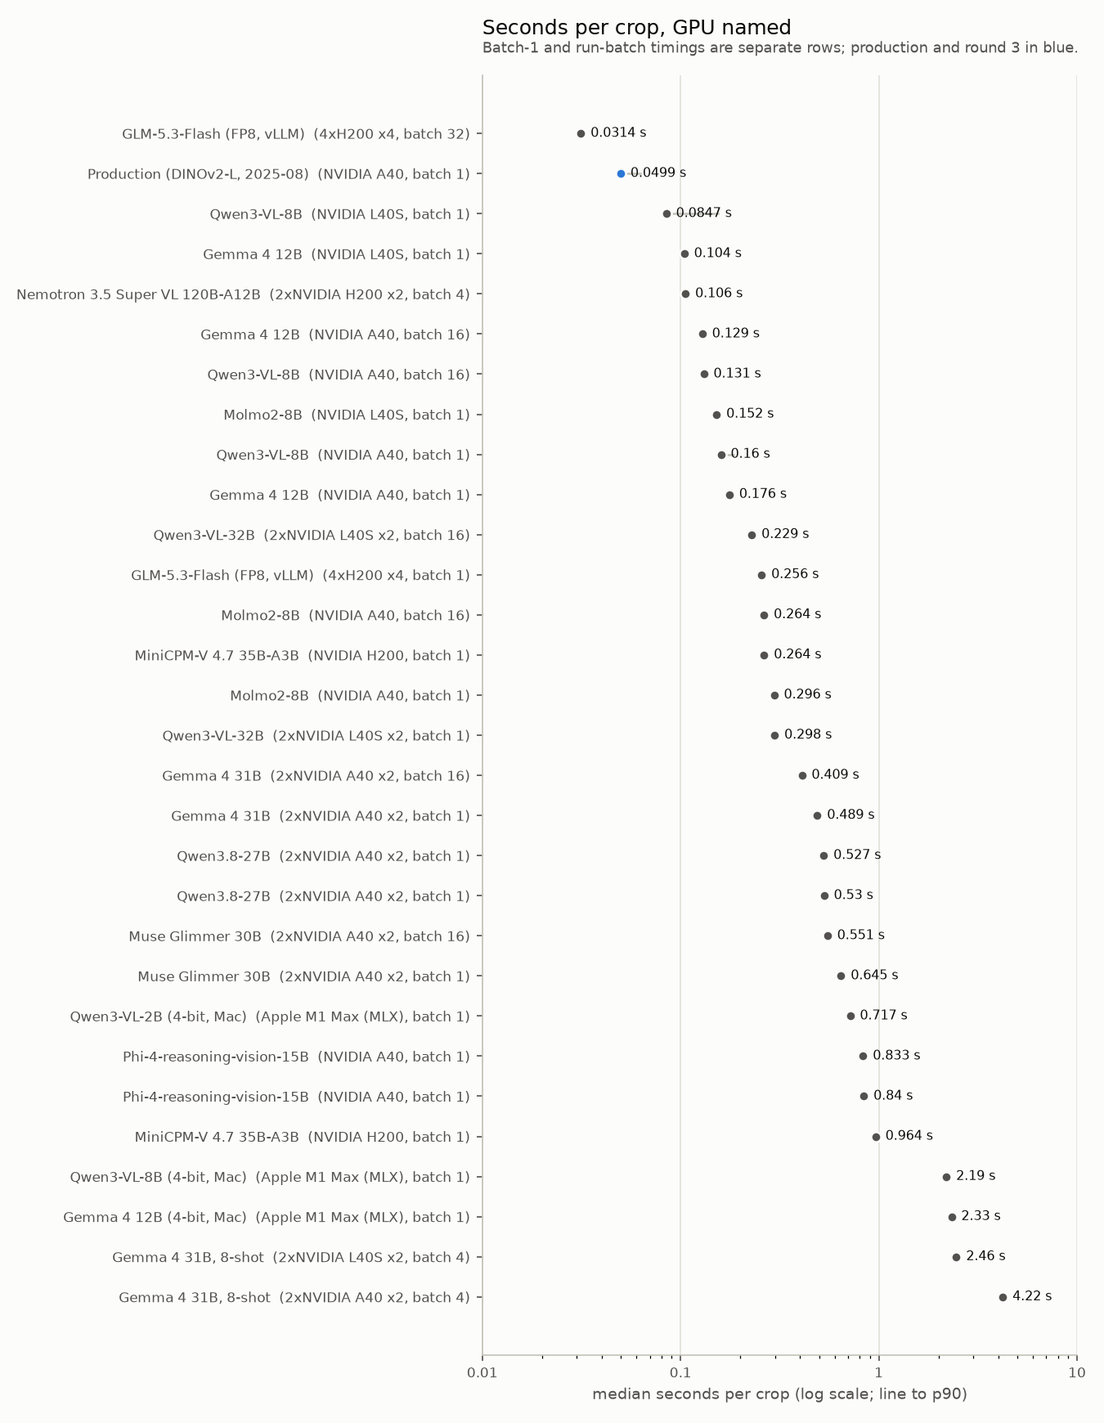
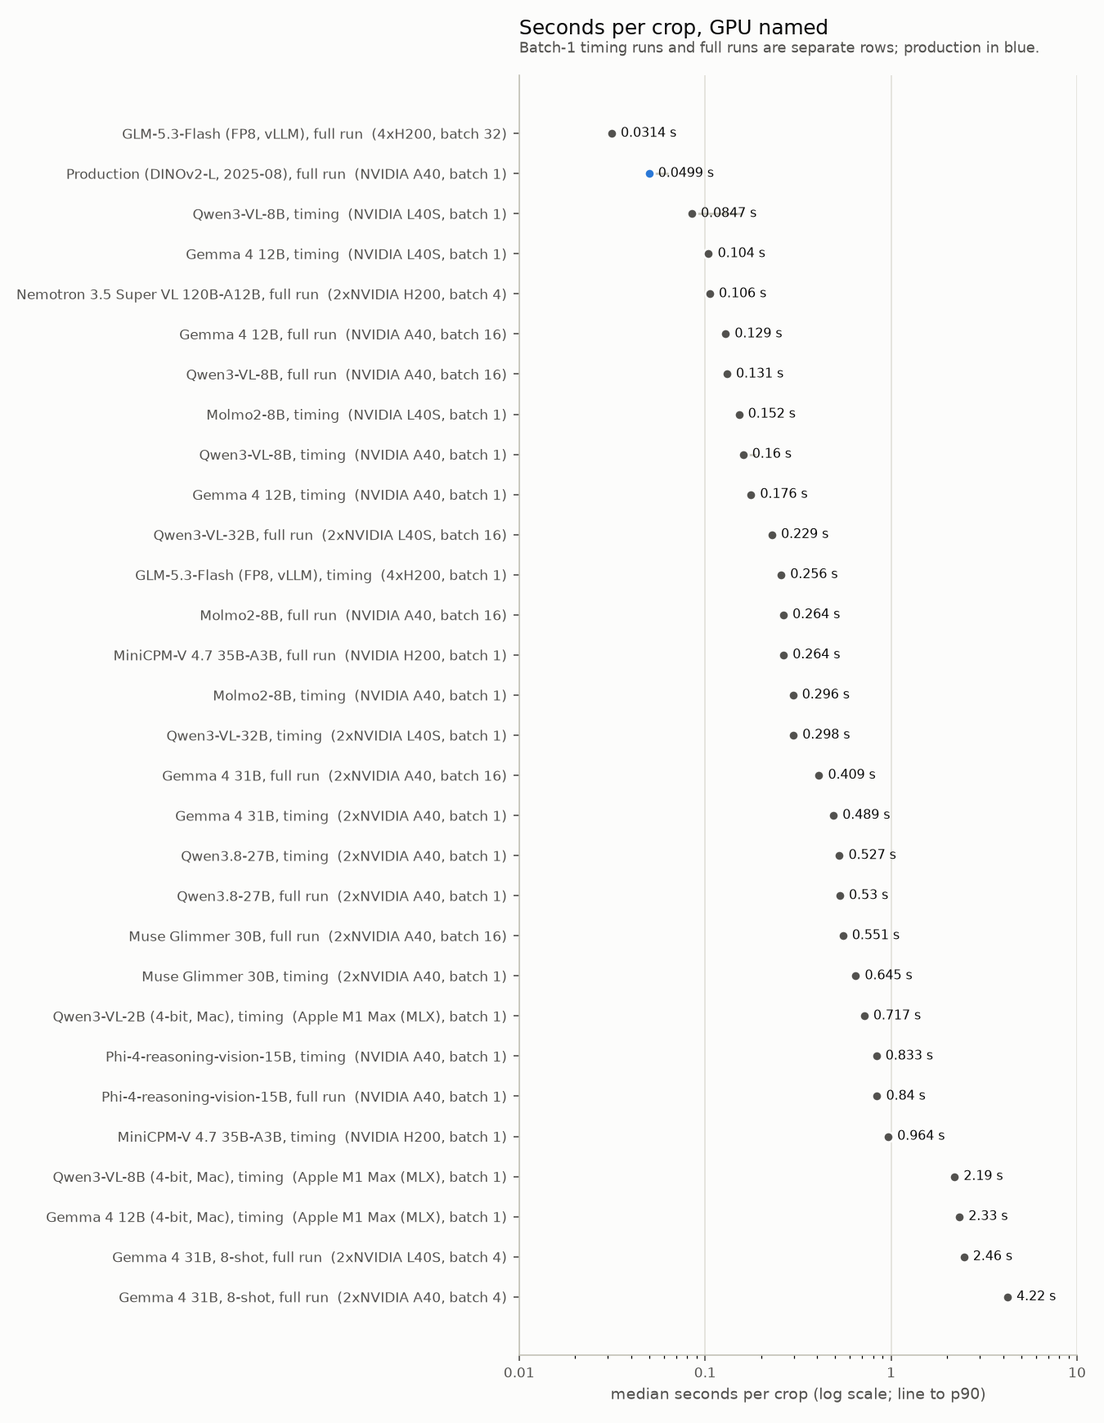
Scoreboard review fixes: runs.md vLLM log restored, figures, caveats (#63)
- runs.md: restore the vLLM section 6fc73a0 overwrote; move the three GLM job
  rows into its 7-column Jobs table with the cells in the right columns; move
  the 8-shot/quota/Nemotron prose into a Notes section; real Nemotron batch
  check (0.007-0.111 max, 0.003-0.038 median) and Slurm Elapsed walls; fix the
  batch-invariance median range; "Where it stands" past-tense.
- vlm-scoreboard.md: batch-effects caveat checked against batch_invariance.csv,
  Nemotron in the thinking-switch list, timing and 8-shot latency wording,
  held-out split defined in the per-deployment intro.
- Figures: per-deployment subtitle on one line, ROC footnote clear of the axis
  labels, latency rows labelled timing/full run without a doubled GPU count.
- Drop the stale phi4 DEFAULT_WHY; vLLM launcher and client use $USER/%u.

diff --git a/analysis/vlm_scoreboard.py b/analysis/vlm_scoreboard.py
@@ -100,7 +100,6 @@ LEGS = {
 }
 MAC_LEGS = {"qwen3vl-2b": "qwen3vl-2b-mlx4", "qwen3vl-8b": "qwen3vl-8b-mlx4", "gemma4-12b": "gemma4-12b-mlx4"}
 DEFAULT_WHY = {
-    "phi4-rv-15b": "optional leg; not run",
     "production": "not staged yet (the full-split production run is on klone)",
     "fewshot8": "the 8-shot arm runs on the best zero-shot leg once the board names it",
 }
@@ -878,7 +877,7 @@ def fig_roc(legs, b, path):
     """ROC per type: round 3 (blue) and production (ink) solid, the best VLM orange dashed, other VLM legs muted."""
     plt = _plt()
     best, _ = best_vlm(b)
-    fig, axes = plt.subplots(1, len(LABEL_TYPES), figsize=(16, 4.0), sharey=True, facecolor=SURFACE)
+    fig, axes = plt.subplots(1, len(LABEL_TYPES), figsize=(16, 4.4), sharey=True, facecolor=SURFACE)
     order = [leg for leg in b.leg if leg in legs]
     for ax, t in zip(axes, LABEL_TYPES):
         _style(ax)
@@ -908,8 +907,8 @@ def fig_roc(legs, b, path):
     axes[0].set_ylabel("true positive rate (incorrect)", fontsize=8, color=INK2)
     fig.suptitle("ROC per label type on each leg's scored crops (AUC in the legend)", x=0.01, ha="left",
                  fontsize=11, color=INK)
-    fig.text(0.01, 0.01, FOOTNOTE, fontsize=7, color=MUTED)
-    fig.tight_layout(rect=(0, 0.05, 1, 0.95))
+    fig.text(0.01, 0.015, FOOTNOTE, fontsize=7, color=MUTED, va="bottom")
+    fig.tight_layout(rect=(0, 0.08, 1, 0.95))
     fig.savefig(path, dpi=150, facecolor=SURFACE)
     plt.close(fig)
 
@@ -946,11 +945,29 @@ def fig_per_deployment(dep, b, path):
     ax.set_axisbelow(True)
     ax.set_xlabel("mean within-type AUC (types with >= 10 rows and both classes)", fontsize=9, color=INK2)
     ax.legend(fontsize=8, frameon=False, loc="upper left", bbox_to_anchor=(1.0, 1.0))
-    _titles(ax, "Per deployment: round 3 vs the best VLM", "Public deployments with >= 30 crops named; private\n"
-            "held-out deployments lettered, all other private deployments pooled.")
+    _titles(ax, "Per deployment: round 3 vs the best VLM", "Public deployments (>= 30 crops) named; private held-out "
+            "ones lettered; other private ones pooled.")
     fig.tight_layout()
     fig.savefig(path, dpi=150, facecolor=SURFACE)
     plt.close(fig)
+
+
+def _gpu_label(gpu, n_gpus):
+    """GPU label for a timing row; appends `` xN`` only when the name does not already carry a count.
+
+    >>> _gpu_label("2xNVIDIA A40", 2), _gpu_label("NVIDIA A40", 2), _gpu_label("NVIDIA A40", 1)
+    ('2xNVIDIA A40', 'NVIDIA A40 x2', 'NVIDIA A40')
+    """
+    n = int(n_gpus)
+    if n == 1 or re.match(r"\d+x", str(gpu)):
+        return str(gpu)
+    return f"{gpu} x{n}"
+
+
+def _timing_kind(source):
+    """``"full run"`` for a row timed on a scoring run, ``"timing"`` for a dedicated timing run (``source`` column)."""
+    s = str(source)
+    return "full run" if s.startswith("full run") or s.startswith("vlm_vllm score") else "timing"
 
 
 def fig_latency(tm, path):
@@ -980,14 +997,14 @@ def fig_latency(tm, path):
     ax.xaxis.set_major_formatter(FuncFormatter(lambda v, _p: f"{v:g}"))
     ax.xaxis.set_minor_formatter(NullFormatter())
     ax.set_yticks(ys)
-    ax.set_yticklabels([f"{r.display}  ({r.gpu}{'' if int(r.n_gpus) == 1 else f' x{int(r.n_gpus)}'}, batch "
+    ax.set_yticklabels([f"{r.display}, {_timing_kind(r.source)}  ({_gpu_label(r.gpu, r.n_gpus)}, batch "
                         f"{int(r.batch_size)})" for r in t.itertuples()], fontsize=8)
     ax.invert_yaxis()
     ax.xaxis.grid(True, color=GRID, lw=0.8, which="major")
     ax.set_axisbelow(True)
     ax.set_xlabel("median seconds per crop (log scale; line to p90)", fontsize=9, color=INK2)
-    _titles(ax, "Seconds per crop, GPU named", "Batch-1 and run-batch timings are separate rows; production and "
-            "round 3 in blue.")
+    _titles(ax, "Seconds per crop, GPU named", "Batch-1 timing runs and full runs are separate rows; production "
+            "in blue.")
     fig.tight_layout()
     fig.savefig(path, dpi=150, facecolor=SURFACE)
     plt.close(fig)

diff --git a/analysis/vlm_vllm.py b/analysis/vlm_vllm.py
@@ -43,7 +43,7 @@ in the ``vllm/vllm-openai`` Apptainer image, waits for ``/health``, runs this, a
 
 Usage (on a GPU node, with a server on port 8000)::
 
-    D=/gscratch/makelab/jfroehli/sidewalk-validator-ai/retrain-2026-10; O=/gscratch/scrubbed/jfroehli/vlm-scoreboard/scores
+    D=/gscratch/makelab/$USER/sidewalk-validator-ai/retrain-2026-10; O=/gscratch/scrubbed/$USER/vlm-scoreboard-2026-10/scores
     python analysis/vlm_vllm.py score --server http://127.0.0.1:8000 --model glm5.3-flash --repo zai-org/GLM-5.3-Flash \\
         --data-root $D --out-dir $O --concurrency 32 --gpu 4xH200 --tp 4 --image-tag vllm/vllm-openai:v0.32.0-x86_64 \\
         --prefill '<think></think>' --template-kwargs '{"reasoning_effort": "low"}'

diff --git a/docs/vlm-scoreboard/runs.md b/docs/vlm-scoreboard/runs.md
@@ -1,7 +1,7 @@
 # VLM scoreboard: klone run log (issue #63)
 
-Every Slurm job behind the transformers legs and the production rows, written by the runner as the jobs ran (all on
-2026-10-26, account `makelab`, partition `ckpt-all`, `--requeue`). Wall times are Slurm `Elapsed`. The per-crop
+Every Slurm job behind the transformers, vLLM and production legs, written by the runner as the jobs ran (2026-10-26/27,
+account `makelab`, partition `ckpt-all`, `--requeue`). Wall times are Slurm `Elapsed`. The per-crop
 outputs carry label ids of private deployments, so they live outside the repo
 (`/gscratch/scrubbed/jfroehli/vlm-scoreboard-2026-10/` on klone, `~/Data/sidewalk-validator-ai-vlm-scoreboard-2026-10/`
 on the Mac); only this log, the code and the generated scoreboard are committed. No label ids or deployment names
@@ -61,11 +61,11 @@ bug. Early runs used a 0.02 threshold and a one-row check; the aborts below are 
 | `qwen3.8-27b` | 1 | 2×A40 | n/a (batch 1) | a batch-16 run (42380949) aborted on NoCurbRamp at 0.030 under the 0.02 threshold; rerun at batch 1, kept |
 | `phi4-rv-15b` | 1 | 1×A40 | n/a (batch 1; its smoke showed 0.011 at batch 8) | none |
 | `gemma4-31b-fewshot8` | 4 | 2×L40S / 2×A40 (one job per type) | ≤1e-16 on the first batches (about 3.1k-token prompts) | none |
-| `nemotron3.5-super-vl-120b` | 4 | 2×H200 | done | 0.106 s/crop full run; batch check on the first batch only (see the job table) |
+| `nemotron3.5-super-vl-120b` | 4 | 2×H200 | 0.007–0.111 max, 0.003–0.038 median (4 rows per type: the first batch only) | none |
 | `production` | 1 (unbatched) | 1×A40 | n/a | none |
 
 The batch-1 timing crops against the full runs (`scores/batch_invariance.csv`, 50 crops per leg, same GPU type):
-median |dp| 0.0024 (Molmo2) to 0.012 (Gemma 4 12B), max 0.019 to 0.22 (Gemma 4 31B); legs run at batch 1
+median |dp| 0.0001 (Gemma 4 31B) to 0.012 (Gemma 4 12B), max 0.019 (Molmo2) to 0.22 (Gemma 4 31B); legs run at batch 1
 reproduce their batch-1 timing scores exactly (0.0), so batch-1 runs are deterministic on one GPU type.
 
 MiniCPM-V 4.7's batch-1 timing run (job 42382210, 0.964 s/crop on g3130) is 3.7× slower than its full run at the
@@ -126,7 +126,76 @@ node), and the full-run row is the one to quote (the board picks it: `run_speed`
 | 42399869 | nemo | nemotron3.5-super-vl-120b full, batch 4 | 2×H200 | — | preempted while loading the weights; cancelled and resubmitted with parallel loading |
 | 42401600 | nemo | **nemotron3.5-super-vl-120b full**, batch 4, `HF_ENABLE_PARALLEL_LOADING` | 2×H200 | 31:23 (third start) | preempted while loading at 14:15, requeued, ran 17:25–17:56 on g3127 and scored 1,728 CurbRamp rows, then **FAILED with `Disk quota exceeded`** writing the meta file on `/gscratch/scrubbed` (the shared fileset was at 99%; writes succeeded again at 18:37, so the quota hit was transient) |
 | 42413443 | nemo | **nemotron3.5-super-vl-120b full**, resubmitted 18:40 after the quota failure; resumes from the 1,728 rows already in CurbRamp.csv | 2×H200 | 20:53 | ran 18:47–19:08 on g3128, loaded in 19 min, scored 64 more rows at 0.203 s/crop, then **FAILED again with `Disk quota exceeded`** on the CSV append |
-| 42454116 | nemo | **nemotron3.5-super-vl-120b full**, `OUT=/gscratch/makelab/jfroehli/vlm-out` (the 1,792 scored rows copied there); submitted 2026-10-27 05:48 | 2×H200 | ~45 min | **done**, 0 preemptions: started 06:53 on g3132 right after GLM released the node, loaded in 19 min, scored the remaining 11,352 crops at 0.105 s/crop (peak 248 GB). Five types from four job starts; `n_crops` 13,136 in timing.csv is the last partial batch excluded |
+| 42454116 | nemo | **nemotron3.5-super-vl-120b full**, `OUT=/gscratch/makelab/jfroehli/vlm-out` (the 1,792 scored rows copied there); submitted 2026-10-27 05:48 | 2×H200 | 41:16 | **done**, 0 preemptions: ran 06:55–07:36 on g3132 right after GLM released the node, loaded in 19 min, scored the remaining 11,352 crops at 0.105 s/crop (peak 248 GB). Five types from four job starts; `n_crops` 13,136 in timing.csv is the last partial batch excluded |
+
+## vLLM
+
+GLM-5.3-Flash (and a Qwen3-VL-8B smoke through the same path), served by vLLM in Apptainer and scored from the first
+generated token's top-20 log-probs: `analysis/vlm_vllm.py` (client) and `analysis/vlm_vllm.slurm` (launcher). Outputs
+on klone under `/gscratch/scrubbed/jfroehli/vlm-scoreboard-2026-10/` (`scores/glm5.3-flash/` for the full run,
+`smoke-vllm/` for smokes), staged on the Mac under `~/Data/sidewalk-validator-ai-vlm-scoreboard-2026-10/scores/`.
+
+### Setup (2026-10-26)
+
+- Image: `vllm/vllm-openai:v0.32.0-x86_64` (vLLM 0.32.0, CUDA 13.0, FlashInfer 0.7.0.post1), pulled to
+  `/gscratch/scrubbed/jfroehli/containers/` in a CPU job (`apptainer pull` on a login node risks the reaper). The
+  recipe (https://recipes.vllm.ai/zai-org/GLM-5.3-Flash) asks for vLLM ≥ 0.29.0 and FlashInfer ≥ 0.6.18. The
+  `-cu129` variant of the same release was tried first and dies at import: its torchcodec links `libnvrtc.so.13`.
+  klone's H200 driver is 580.178, which runs CUDA 13.0.
+- Weights: `zai-org/GLM-5.3-Flash` revision `46a050bec13002ad29ee795c16e61cf4fa3c4a9c`, 306 GiB FP8, 69 files, downloaded
+  on the login node in 2 h 10 min (`HF_HUB_DISABLE_XET=1`, safetensors/json/py/txt/jinja only).
+- Serve flags: TP 4, `--max-model-len 8192`, `--limit-mm-per-prompt {"image":1,"video":0}`, `--max-logprobs 20`, BF16 KV
+  cache (the recipe: Hopper cannot use FP8 KV for this model), no MTP speculative decoding (one token is generated).
+- Thinking: GLM-5.3-Flash's template always opens `<think>` and has no off switch (the recipe: "Thinking is always
+  on"). The client sends an assistant turn `<think></think>` with `continue_final_message=true`, which the template
+  renders as an empty, closed think block, plus `reasoning_effort=low`. The rendered prompt tail from vLLM's
+  `/tokenize` is recorded in each meta file.
+- Client env: `/gscratch/scrubbed/jfroehli/envs/vllm-client` (Python 3.12, numpy, pandas, scikit-learn, matplotlib,
+  pillow). The client runs on the host and posts each crop to the server as a base64 data URL.
+- Three klone traps, each fixed in the launcher: (1) klone exports `http_proxy`, and its `no_proxy` omits `127.0.0.1`,
+  so the `/health` probe went to the proxy and a healthy server timed out (job 42382723). (2) Apptainer's `--env`
+  splits on commas, so a 4-GPU `CUDA_VISIBLE_DEVICES=0,1,2,3` broke the 4×H200 launch (job 42390223). (3) The first
+  successful smoke used the transformers leg's `scores/` directory and model name. It appended nothing to that leg's
+  CSV, but it merged its keys into that leg's `qwen3vl-8b-bf16/CurbRamp.meta.json`. That file was restored by hand
+  (the added keys were removed; `gpu`/`batch_size` were reset to the CSV's `NVIDIA A40`/16). The client now refuses to
+  write into a CSV or meta file it did not create.
+
+### Smoke agreement: vLLM vs transformers, Qwen3-VL-8B-Instruct bf16, 40 CurbRamp crops
+
+The same 40 crops (`--limit 40`, first 20 per class by `label_uid`) scored by both paths. The transformers side is the
+runner's full CurbRamp run, on an A40 at batch 16; the vLLM side ran on 1×H200 at concurrency 8.
+
+| measure | value |
+|---|---|
+| mean / median / max \|Δ p_incorrect\| | 0.009 / 0.0007 / 0.060 |
+| crops with \|Δ\| > 0.02 | 8 of 40 |
+| mean / max \|Δ log-odds\| | 0.17 / 0.50 |
+| same verdict at 0.5 | 39 of 40 |
+| same top token, same prompt token count | 40 of 40, 40 of 40 |
+| top-20 mass outside (vLLM) | mean 1.1e-7, max 1.1e-6; no missing-side floors |
+
+The prompt and image token counts match exactly, so preprocessing agrees. The residual is bf16 kernel noise:
+FlashAttention 3 in vLLM against sdpa in transformers. In probability it is largest near 0.5. The mean is inside the
+~0.02 expectation; the tail is not.
+
+### Jobs
+
+Wait = Slurm `Start − Submit`. All on `ckpt-all`, account `makelab`.
+
+| job | what | GPU | wait | wall | preemptions | outcome |
+|---|---|---|---|---|---|---|
+| 42378643 | `apptainer pull` v0.32.0-cu129 | CPU, 16 cores | 0 min | 1:09:48 | 0 | image built; unusable (libnvrtc.so.13) |
+| 42379510 | smoke Qwen3-VL-8B, cu129 image | 1×H200 | 7 min | 0:01:11 | 0 | failed: torchcodec import |
+| 42380061 | `apptainer pull` v0.32.0 (CUDA 13) | CPU, 16 cores | 3 min | 0:44:22 | 0 | image built |
+| 42382723 | smoke Qwen3-VL-8B | 1×H200 | 37 min | 1:00:26 | 0 | timeout: health probe behind proxy |
+| 42390219 | smoke Qwen3-VL-8B | 1×H200 | 7 min | 0:03:39 | 0 | collided with the transformers leg's dir (above) |
+| 42390223 | smoke GLM-5.3-Flash, 40/type | 4×H200 | 9 min | 0:00:26 | 0 | failed: `--env` comma split |
+| 42391263 | smoke Qwen3-VL-8B, 40 CurbRamp | 1×H200 | 10 min | 0:07:21 | 0 | OK; server healthy in 180 s; 0.075 s/crop at concurrency 8 |
+| 42391323 | smoke GLM-5.3-Flash, 40/type, `OUT=smoke-vllm`; submitted 2026-10-26 10:22 | 4×H200 | 8 h 34 min (to the first start) | — | 1 | started 18:56 on g3127 and was **preempted at 18:58** while loading the tokenizer; requeued; cancelled 2026-10-27 06:05 once the full run 42413444 was running (the full run's meta answers the same prefill question) |
+| 42413444 | **full GLM-5.3-Flash**, launcher defaults (timing at concurrency 1, then all 13,144 crops); submitted 2026-10-26 18:40 | 4×H200 | about 11 h (started 2026-10-27 05:57 on g3132) | 0:55:13 | 0 | **done** (05:57:38–06:52:51): 0.256 s/crop at concurrency 1, 0.031 s/crop at concurrency 32. Weights loaded in 30 min, first-use kernel JIT (TileLang, FlashInfer) another 17 min, healthy after 2,823 s, then all 13,144 crops in 7 min. Every rendered prompt ends `<\|assistant\|><think></think>`; no yes/no side fell outside the top-20 log-probs (`n_answer_floor` empty); `top20_mass_outside` ≤ 5.2e-4; the meta carries `answer_floor_rule`, so the corrected client ran. Wrote to scrubbed without hitting the quota |
+| 42454117 | **full GLM-5.3-Flash**, same defaults, `OUT=/gscratch/makelab/jfroehli/vlm-out/scores-vllm`; submitted 2026-10-27 05:48 | 4×H200 | — | — | — | hedge against the scrubbed quota; cancelled at 06:45 once 42413444 was writing rows cleanly |
+
+## Notes
 
 8-shot arm: the leg with the best mean per-type AUC among the finished zero-shot legs when it was launched was
 `gemma4-31b`. Examples: 4 correct + 4 incorrect `train` crops per type, seed 20261021, interleaved correct/incorrect,
@@ -139,23 +208,12 @@ Prompts are about 3,100 tokens (nine images), so 2.5 s/crop on 2×L40S and 4.2 s
 Nemotron: three preemptions in total (smoke once, full run twice), each during the 25-minute weight load on a
 ckpt H200 pair. It was left queued on ckpt rather than moved to the lab's `gpu-l40s` allocation, which has no H200
 and would need a whole 8×L40S node to hold the 249 GB of weights.
-| 42391323 | smoke GLM-5.3-Flash, 40/type, `OUT=smoke-vllm` | 4×H200 | submitted 10:22 | — | — | started 18:56 on g3127 and was **preempted at 18:58** while loading the tokenizer; requeued; cancelled 2026-10-27 06:05 once the full run 42413444 was running (the full run's meta answers the same prefill question) |
-| 42413444 | **full GLM-5.3-Flash**, launcher defaults (timing at concurrency 1, then all 13,144 crops) | 4×H200 | submitted 18:40, started 2026-10-27 05:57 on g3132 | 55:13 | 0.256 s/crop at concurrency 1; 0.031 s/crop at concurrency 32 | **done**, 0 preemptions: weights loaded in 30 min, first-use kernel JIT (TileLang, FlashInfer) another 17 min, healthy after 2,823 s, then all 13,144 crops in 7 min. Every rendered prompt ends `<\|assistant\|><think></think>`; no yes/no side fell outside the top-20 log-probs (`n_answer_floor` empty); `top20_mass_outside` ≤ 5.2e-4; the meta carries `answer_floor_rule`, so the corrected client ran. Wrote to scrubbed without hitting the quota |
-| 42454117 | **full GLM-5.3-Flash**, same defaults, `OUT=/gscratch/makelab/jfroehli/vlm-out/scores-vllm` | 4×H200 | submitted 2026-10-27 05:48 | — | — | hedge against the scrubbed quota; cancelled at 06:45 once 42413444 was writing rows cleanly |
 
-### Where it stands (2026-10-27 07:50; earlier states below for the record)
+## Where it stands (2026-10-27 07:50)
 
 - Every leg is in: 14 klone legs on all 13,144 crops (GLM-5.3-Flash 0.754, Nemotron 3.5 Super VL 0.738). Both staged
   to the Mac, `timing.csv` regenerated with `timing-summary`.
 
-#### 2026-10-26 15:05
-
-- Done: client, launcher, tests; container path working; Qwen3-VL-8B smoke through vLLM agrees with transformers
-  (table above).
-- Not done: the GLM-5.3-Flash smoke result is unread, and the full 13,144-crop GLM run plus the concurrency-1 timing
-  run were not submitted. Both wait for the SSH master to be reopened (Duo).
-- Next: if 42391323 completed, check its rendered-prompt tail ends in `<think></think>` and `answer_floor` /
-  `top20_mass_outside` in the metas. Then run `sbatch analysis/vlm_vllm.slurm` from
-  `/gscratch/makelab/jfroehli/sva-wt-vlm`; the defaults are the full GLM run, with timing at concurrency 1 first.
-  Stage `scores/glm5.3-flash/` to `~/Data/sidewalk-validator-ai-vlm-scoreboard-2026-10/scores/glm5.3-flash/` and its
-  `timing.csv` as `scores/timing_glm5.3-flash.csv`.
+At the previous check (2026-10-26 15:05) the vLLM client, launcher, tests and container path were done and the
+Qwen3-VL-8B smoke through vLLM agreed with transformers; the GLM-5.3-Flash smoke was unread and the full GLM run
+waited on a reopened SSH master (Duo). Both were settled on 27 Oct by jobs 42391323 and 42413444 above.

diff --git a/docs/vlm-scoreboard.md b/docs/vlm-scoreboard.md
@@ -267,9 +267,10 @@ draws (seed 20261021). A partial leg's comparison is on its own crops only.
 ## Per deployment
 
 Mean within-type AUC per deployment (all five types, types with ≥ 10 rows and both classes), for round 3,
-production and the best VLM with full coverage. Public deployments with ≥ 30 held-out crops are named; the two
+production and the best VLM with full coverage. Public deployments with ≥ 30 crops are named; the two
 private held-out deployments are lettered as in [`retrain-2026-10.md`](retrain-2026-10.md); every other private
-deployment is pooled into one row.
+deployment is pooled into one row. The crops are the whole held-out split, the round-3 `test` + `test_heldout` rows,
+which is wider than the board's *held-out* column (`test_heldout` only).
 
 <!-- BEGIN GENERATED: per_deployment (analysis/vlm_scoreboard.py) -->
 
@@ -365,7 +366,7 @@ Crops scored per (model, type) out of the held-out crops of that type, and why a
 | Phi-4-reasoning-vision-15B | 2,025 / 2,025 | 3,356 / 3,356 | 4,078 / 4,078 | 3,102 / 3,102 | 583 / 583 |  |
 | Production (DINOv2-L, 2025-08) | 2,025 / 2,025 | 3,356 / 3,356 | 4,078 / 4,078 | 3,102 / 3,102 | 583 / 583 |  |
 | Qwen3.8-27B | 2,025 / 2,025 | 3,356 / 3,356 | 4,078 / 4,078 | 3,102 / 3,102 | 583 / 583 |  |
-| Qwen3-VL-2B (4-bit, Mac) | 271 / 2,025 | 100 / 3,356 | 100 / 4,078 | 100 / 3,102 | 100 / 583 | 4-bit, Mac, sample (#16's 1,988-crop sample or its 500-crop subset) |
+| Qwen3-VL-2B (4-bit, Mac) | 271 / 2,025 | 100 / 3,356 | 100 / 4,078 | 100 / 3,102 | 100 / 583 | #16's 500-crop subset plus 171 CurbRamp crops of an interrupted run (671) |
 | Qwen3-VL-32B | 2,025 / 2,025 | 3,356 / 3,356 | 4,078 / 4,078 | 3,102 / 3,102 | 583 / 583 |  |
 | Qwen3-VL-8B | 2,025 / 2,025 | 3,356 / 3,356 | 4,078 / 4,078 | 3,102 / 3,102 | 583 / 583 |  |
 | Qwen3-VL-8B (4-bit, Mac) | 100 / 2,025 | 100 / 3,356 | 100 / 4,078 | 100 / 3,102 | 100 / 583 | 4-bit, Mac, sample (#16's 1,988-crop sample or its 500-crop subset) |
@@ -391,15 +392,15 @@ Crops scored per (model, type) out of the held-out crops of that type, and why a
   incorrect × correct pairs, deployments with ≥ 10 rows and both classes, then the mean over types.
 - **The 8-shot arm.** Gemma 4 31B, the best zero-shot leg when the arm was launched, with eight in-context `train`
   crops per type (four correct, four incorrect, seed 20261021, the same eight for every query of a type; no query
-  shared a panorama with its examples). Prompts run to about 3,100 tokens, hence the 10–20× latency.
-- **Thinking.** Off through the chat template where there is a switch (Qwen3.8, Gemma 4, MiniCPM-V). GLM-5.3-Flash
-  has none, so the client prefills an empty, closed `<think></think>` assistant turn (confirmed in every rendered
-  prompt); Muse Glimmer is forced to its final-answer channel by a prompt suffix; Phi-4 takes the `<nothink>` prefix.
+  shared a panorama with its examples). Prompts run to about 3,100 tokens, hence about 10× the latency.
+- **Thinking.** Off through the chat template where there is a switch (Qwen3.8, Gemma 4, MiniCPM-V, Nemotron 3.5).
+  GLM-5.3-Flash has none, so the client prefills an empty, closed `<think></think>` assistant turn (confirmed in
+  every rendered prompt); Muse Glimmer is forced to its final-answer channel by a prompt suffix; Phi-4 takes the `<nothink>` prefix.
 - **The vLLM leg.** GLM-5.3-Flash is the only model served by vLLM (FP8 weights, tensor parallel 4 on four H200s,
   the vllm/vllm-openai 0.32.0 image under Apptainer); it reads the first token's top-20 log-probs, and no crop had
   a yes/no spelling outside them. `docs/vlm-scoreboard/runs.md` is the job log for every klone leg.
-- **Timing.** Per leg, a batch-1 run and the run batch on a named GPU, median and p90 seconds per crop; the vLLM
-  leg's rows are concurrency 1 and 32; the Mac legs are #16's idle-machine batch-1 timings.
+- **Timing.** Per leg, a batch-1 timing run where one was made (not Nemotron, the 8-shot arm or production) and the
+  full run on a named GPU, median and p90 seconds per crop; the vLLM leg's rows are concurrency 1 and 32; the Mac legs are #16's idle-machine batch-1 timings.
 
 ## Caveats
 
@@ -413,10 +414,10 @@ Crops scored per (model, type) out of the held-out crops of that type, and why a
   the full ones.
 - **Thinking is off** for every model (switch, prefill, channel or prefix, see above); a reasoning pass might
   change some answers at many times the cost.
-- **Batch effects.** The transformers legs ran at batch 16 (batch 4 for the 8-shot arm, batch 1 for MiniCPM-V,
-  Qwen3.8 and Phi-4). In bf16 a crop's `p_incorrect` differs between batch 1 and batch 16 by up to 0.05 to 0.22
-  (median below 0.01); the fp32 difference is 2e-5, so this is kernel noise, not a bug. `runs.md` has the per-leg
-  numbers.
+- **Batch effects.** The transformers legs ran at batch 16 (batch 4 for the 8-shot arm and Nemotron, batch 1 for
+  MiniCPM-V, Qwen3.8 and Phi-4). In bf16 a crop's `p_incorrect` at the run batch differs from batch 1 by up to
+  0.02–0.22 per leg (median 0.0001–0.012); the fp32 difference is 2e-5, so this is kernel noise, not a bug.
+  `vlm-scoreboard/runs.md` has the per-leg numbers.
 
 ## Related
 
